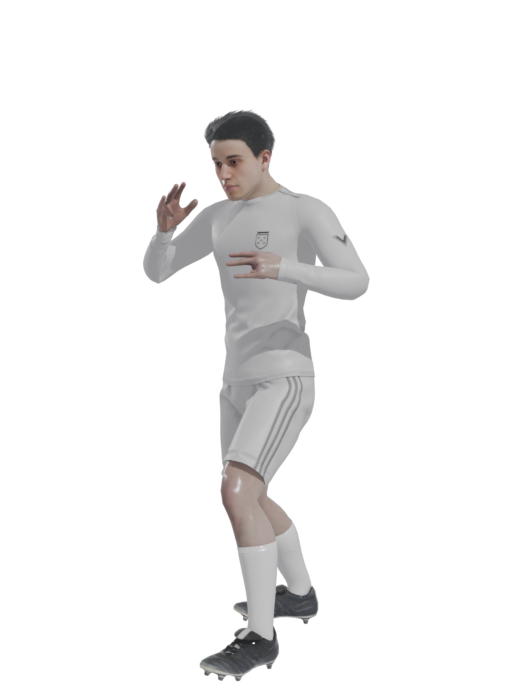
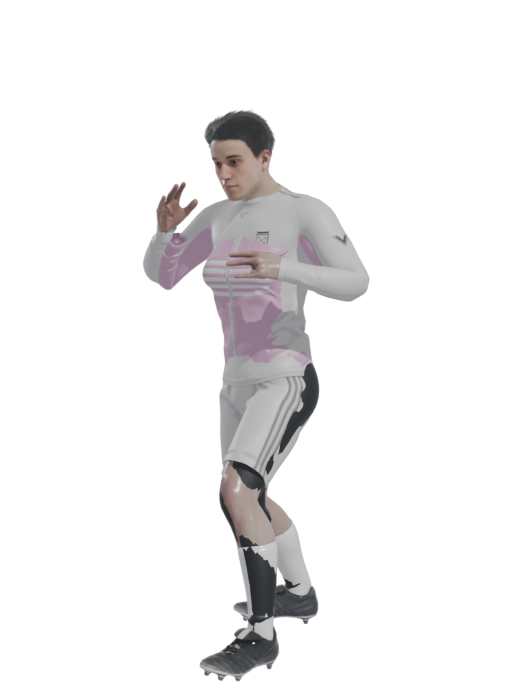
Hình nộm làm nền mặc đồ: body.fbx vào bộ công cụ, ba bộ trang phục
body.fbx là nhân vật Mixamo Ch36 — MỘT lưới duy nhất trải từ z 0,00 tới 1,68 m,
thân trọn vẹn, không mặt không tóc không quần áo. Khác hẳn hai võ sĩ: mặc gì lên
cũng có thân thật bên dưới, cởi hết cũng không hở.

Cho công cụ mượn đồ từ NHIỀU nguồn nên hình nộm mặc được cả hai bộ, tổng ba lựa
chọn kể cả không mặc gì.

Chỗ mất công nhất là làm đồ vừa thân. Hình nộm to hơn hai võ sĩ nên thân chọc ra
ngoài áo. Tôi đi nhầm đường trước: THU NGƯỜI lại theo pháp tuyến. Ở 14 mm thì
nát ngón tay và bàn chân — chúng chỉ dày cỡ đó. Chừa tay chân bằng mặt nạ trọng
số xương rồi thu 20 mm thì nát tiếp cả tay lẫn chân, vì chi thể chỉ dày 5–7 cm
nên bù vào từ hai phía là gần như sập.

Đường đúng là ngược lại: NỚI RỘNG QUẦN ÁO 12 mm. Áo là vỏ mỏng, nới ra chỉ rộng
thêm chứ không tự giao nhau, và một tham số dùng chung cho mọi bộ đồ về sau.

diff --git a/web/boxer.html b/web/boxer.html
@@ -3,7 +3,7 @@
 <head>
 <meta charset="utf-8">
 <meta name="viewport" content="width=device-width,initial-scale=1">
-<title>Hai Võ Sĩ</title>
+<title>Hai Võ Sĩ Và Một Hình Nộm</title>
 <link rel="stylesheet" href="https://fonts.googleapis.com/css2?family=Spectral:ital,wght@0,500;0,600;1,400&family=IBM+Plex+Sans:wght@400;500;600&family=IBM+Plex+Mono:wght@400;500&display=swap">
 <style>
 :root {
@@ -112,7 +112,7 @@ dl.facts dd {
 <body>
 <div class="wrap">
   <header>
-    <h1>Hai Võ Sĩ <em>— mượn hết kho động tác</em></h1>
+    <h1>Hai Võ Sĩ <em>và một hình nộm</em></h1>
     <p class="sub">Hai nhân vật Mixamo đưa vào chỉ mang theo <b>một</b> hoạt ảnh, giờ
     có <span class="num">17</span>: một của chính họ, sáu của hiệp sĩ, năm của cung thủ,
     năm từ thư viện Mixamo. Không phải chuyển động tác — bốn rig này cùng chuẩn nên
@@ -132,6 +132,7 @@ dl.facts dd {
       <div class="btns">
         <button id="who-nam" class="on">Nam</button>
         <button id="who-nu">Nữ</button>
+        <button id="who-mano">Hình nộm</button>
       </div>
     </div>
 
@@ -199,6 +200,16 @@ dl.facts dd {
       lửng vì thấy ảnh nối vào một ô tên “Color”, nhưng đó chính là đầu vào của node
       Normal Map.</li>
 
+      <li><b>Hình nộm mới là nền để mặc đồ.</b> <code>body.fbx</code> là một lưới
+      duy nhất trải từ <span class="num">z 0,00</span> tới
+      <span class="num">1,68</span> m — thân trọn vẹn, không mặt, không tóc, không
+      quần áo. Mặc gì lên cũng có thân thật bên dưới. Nhưng đồ may vừa người này
+      thì chật với người kia, và cách sửa <b>không</b> phải thu người lại: chi thể
+      chỉ dày <span class="num">5–7</span> cm nên bù vào từ hai phía là gần như
+      sập — thử ở <span class="num">14</span> mm đã nát ngón tay, ở
+      <span class="num">20</span> mm nát cả tay chân. Nới rộng quần áo mới đúng:
+      áo là vỏ mỏng, nới ra chỉ rộng thêm chứ không tự giao nhau.</li>
+
       <li><b>Cởi quần áo ra thì bên dưới rỗng.</b> Quần áo là lưới riêng thật —
       trùng <span class="num">0%</span> đỉnh với thân, không dính lỗi lớp chồng
       lớp — nhưng Mixamo đã xoá sạch phần da bị che. Cởi ra thì nhân vật nam chỉ
@@ -240,13 +251,14 @@ import { OrbitControls } from 'three/addons/controls/OrbitControls.js';
 import { DRACOLoader } from 'three/addons/loaders/DRACOLoader.js';
 
 const WHO = {
-  nam: '../build/boxer_nam/boxer_nam.glb',
-  nu:  '../build/boxer_nu/boxer_nu.glb',
+  nam:  '../build/boxer_nam/boxer_nam.glb',
+  nu:   '../build/boxer_nu/boxer_nu.glb',
+  mano: '../build/manocanh/manocanh.glb',
 };
 
 // Tủ đồ. Mỗi bộ liệt kê đúng những lưới cần hiện; mọi lưới quần áo khác bị ẩn.
 // Đầu, tóc và mi mắt thì luôn hiện.
-const ALWAYS = /_(Body|Hair|Eyelashes|Eyeleashes)$/;
+const ALWAYS = /(_(Body|Hair|Eyelashes|Eyeleashes)|^Ch36)$/;
 const WEAR = {
   nam: [
     { id: 'san', label: '⚽ Đồ bóng đá',
@@ -255,6 +267,16 @@ const WEAR = {
     { id: 'tap', label: '👟 Đồ tập (mượn)',
       show: ['Ch37_Shirt', 'Ch37_Zipper', 'Ch37_Pants', 'Ch38_Shoes'],
       note: 'Mượn từ nhân vật nữ. Hai mảng da đầu gối phải ẩn đi, nếu không chúng chọc xuyên qua quần dài.' },
+  ],
+  mano: [
+    { id: 'tran', label: '🧍 Không mặc gì', show: [],
+      note: 'Hình nộm có thân trọn vẹn từ bàn chân tới đầu, nên cởi hết vẫn không hở chỗ nào — khác hẳn hai võ sĩ.' },
+    { id: 'bongda', label: '⚽ Đồ bóng đá',
+      show: ['Ch38_Shirt', 'Ch38_Shorts', 'Ch38_Socks', 'Ch38_Shoes'],
+      note: 'Mượn của nhân vật nam.' },
+    { id: 'tap', label: '👟 Đồ tập',
+      show: ['Ch37_Shirt', 'Ch37_Zipper', 'Ch37_Pants', 'Ch37_Sneakers'],
+      note: 'Mượn của nhân vật nữ. Đồ được nới ra 12 mm cho vừa thân hình nộm.' },
   ],
   nu: [
     { id: 'tap', label: '👟 Đồ tập',

diff --git a/web/nhanvat.html b/web/nhanvat.html
@@ -3,7 +3,7 @@
 <head>
 <meta charset="utf-8">
 <meta name="viewport" content="width=device-width,initial-scale=1">
-<title>Bảy Nhân Vật</title>
+<title>Tám Nhân Vật</title>
 <link rel="stylesheet" href="https://fonts.googleapis.com/css2?family=Spectral:ital,wght@0,500;0,600;1,400&family=IBM+Plex+Sans:wght@400;500;600&family=IBM+Plex+Mono:wght@400;500&display=swap">
 <style>
 :root {
@@ -129,7 +129,7 @@ footer code { font-family: "IBM Plex Mono", monospace; }
 </head>
 <body>
 <div class="wrap">
-  <h1>Bảy Nhân Vật <em>— tất cả trình xem</em></h1>
+  <h1>Tám Nhân Vật <em>— tất cả trình xem</em></h1>
   <p class="sub">Mọi nhân vật trong dự án, mỗi người một trang xem riêng chạy thẳng
   trên trình duyệt. Bấm vào ảnh để mở. Tất cả đều dựng bằng Blender headless và
   xem bằng three.js, không có bước nào phải mở giao diện Blender.</p>
@@ -218,6 +218,20 @@ footer code { font-family: "IBM Plex Mono", monospace; }
           <dt>xương</dt><dd>65</dd>
           <dt>clip</dt><dd>1 → 17</dd>
           <dt>GLB</dt><dd>7,82 MB</dd>
+        </dl>
+        <div class="go">mở trang →</div>
+      </div>
+    </a>
+    <a class="card" style="--c:var(--boxer)" href="boxer.html">
+      <div class="shot"><img src="thumbs/manocanh.png" alt="Hình nộm"></div>
+      <div class="body">
+        <div class="name">Hình nộm <b>· nền mặc đồ</b></div>
+        <p class="what">Thân trọn vẹn từ chân tới đầu, không mặt không tóc. Mặc gì
+        lên cũng không hở, nên đây là nền để thử trang phục.</p>
+        <dl>
+          <dt>đỉnh</dt><dd>14 442</dd>
+          <dt>bộ đồ</dt><dd>3</dd>
+          <dt>clip</dt><dd>17</dd>
         </dl>
         <div class="go">mở trang →</div>
       </div>

diff --git a/scripts/mixamo_kit.py b/scripts/mixamo_kit.py
@@ -59,15 +59,43 @@ CLIP_SOURCES = [
 
 # Tủ đồ mượn từ file khác. Áo may cho rig Mixamo nào cũng đeo được lên rig
 # Mixamo khác, vì cùng tên xương — chỉ phải đổi tiền tố nhóm đỉnh.
+PB1 = os.path.join(ROOT, 'source', 'Punching_Bag_1.fbx')
+PB2 = os.path.join(ROOT, 'source', 'Punching_Bag_2.fbx')
 WARDROBE = {
-    'boxer_nam': (os.path.join(ROOT, 'source', 'Punching_Bag_2.fbx'),
-                  ('Ch37_Shirt', 'Ch37_Zipper', 'Ch37_Pants')),
-    'boxer_nu': (os.path.join(ROOT, 'source', 'Punching_Bag_1.fbx'),
-                 ('Ch38_Shirt',)),
+    'boxer_nam': [(PB2, ('Ch37_Shirt', 'Ch37_Zipper', 'Ch37_Pants'))],
+    'boxer_nu': [(PB1, ('Ch38_Shirt',))],
+    # Hình nộm có thân trọn vẹn nên mặc được cả hai bộ mà không hở chỗ nào.
+    'manocanh': [(PB1, ('Ch38_Shirt', 'Ch38_Shorts', 'Ch38_Socks', 'Ch38_Shoes')),
+                 (PB2, ('Ch37_Shirt', 'Ch37_Zipper', 'Ch37_Pants', 'Ch37_Sneakers'))],
 }
 # Da hở được nặn vừa bộ đồ GỐC. Mặc bộ dài chồng lên thì mấy mảng ấy chọc
 # xuyên qua vải, nên phải tách ra thành lưới riêng để ẩn đi được.
 BARE_Z = 0.95            # đảo lưới nằm hẳn dưới mức này là da chân hở
+# Quần áo may vừa thân người này thì chật với thân người kia. Hình nộm to hơn
+# hai võ sĩ nên thân chọc ra ngoài áo mượn. Thu thân vào theo pháp tuyến là
+# phép sửa một lần dùng cho MỌI bộ đồ; đẩy từng bộ áo ra thì phải chỉnh lại
+# mỗi lần thêm đồ mới.
+# Nới rộng quần áo mượn, KHÔNG thu người. Thu người thì hỏng: chi thể chỉ dày
+# 5–7 cm nên bù vào từ hai phía là gần như sập, và thử ở 14 mm đã nát ngón tay,
+# ở 20 mm nát cả tay chân. Áo là vỏ mỏng, nới ra chỉ rộng thêm chứ không tự
+# giao nhau.
+INFLATE_MM = {'manocanh': 12.0}
+
+
+# Chừa những chỗ mảnh. Ngón tay và ngón chân chỉ dày cỡ chục milimét nên thu
+# đều tay là bóp nát chúng thành gai — thử rồi. Đầu thì luôn hở nên không cần
+# thu, mà thu là méo mặt.
+def inflate(obj, mm):
+    """Nới một lưới vỏ ra ngoài theo pháp tuyến đỉnh.
+
+    Toạ độ đỉnh nằm trong hệ riêng của đối tượng nên phải quy đổi từ milimét
+    của thế giới.
+    """
+    unit = (obj.matrix_world.to_3x3() @ Vector((1.0, 0.0, 0.0))).length
+    d = (mm / 1000.0) / unit
+    for v in obj.data.vertices:
+        v.co = v.co + v.normal * d
+    obj.data.update()
 
 
 def split_bare_skin(body, z_max=BARE_Z):
@@ -437,14 +465,26 @@ def build(src, tag, own_name='00_DamBao'):
 
     normalise_prefix(arm, meshes)
 
+    # Lưới thân: theo hậu tố _body, hoặc lưới nhiều đỉnh nhất nếu chỉ có một
+    # lưới duy nhất như hình nộm (tên nó là "Ch36", không có hậu tố nào).
     body = next((o for o in meshes if o.name.lower().endswith('_body')), None)
+    if body is None and len(meshes) == 1:
+        body = meshes[0]
     if body is not None:
         skin = split_bare_skin(body)
         if skin is not None:
             meshes.append(skin)
+    grew = []
+    for path, names in WARDROBE.get(tag, []):
+        grew += borrow_clothes(arm, path, names)
+    mm = INFLATE_MM.get(tag)
+    if mm:
+        for n in grew:
+            o = bpy.data.objects.get(n)
+            if o is not None:
+                inflate(o, mm)
+        print('    nới %d món đồ mượn ra %.0f mm' % (len(grew), mm))
     if tag in WARDROBE:
-        path, names = WARDROBE[tag]
-        borrow_clothes(arm, path, names)
         meshes = [o for o in bpy.data.objects if o.type == 'MESH']
         normalise_prefix(arm, meshes)
 
